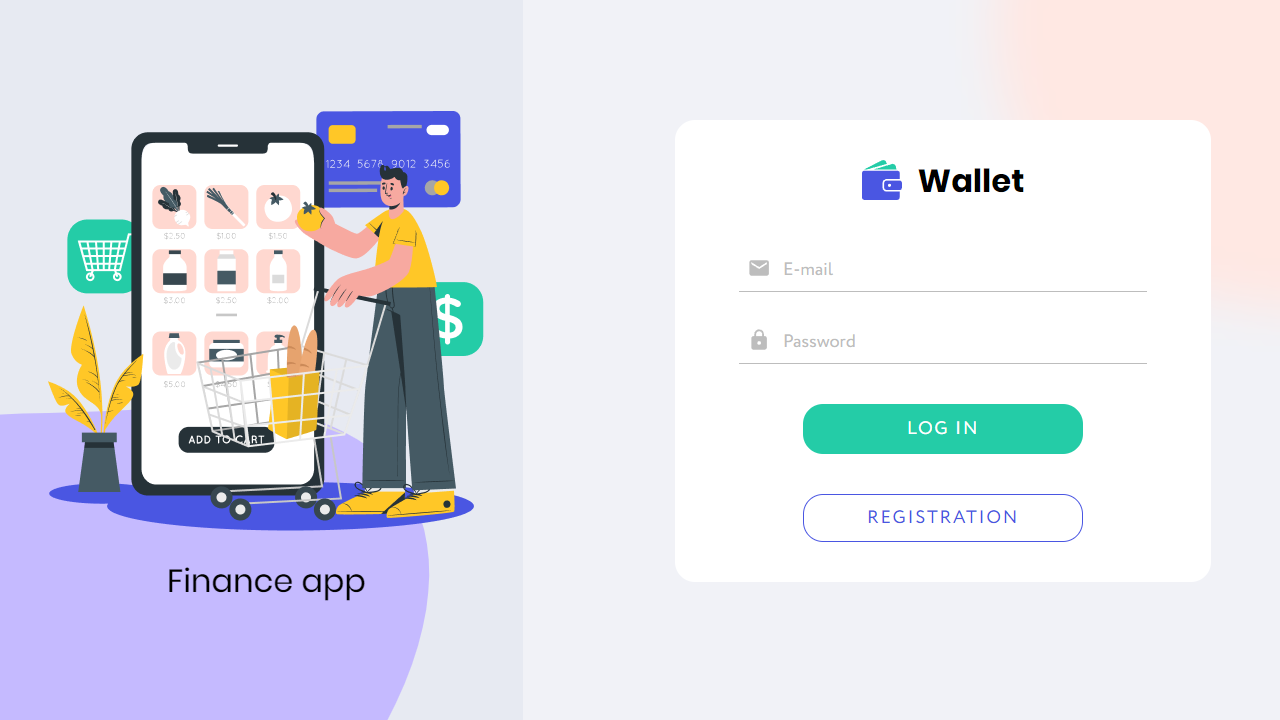
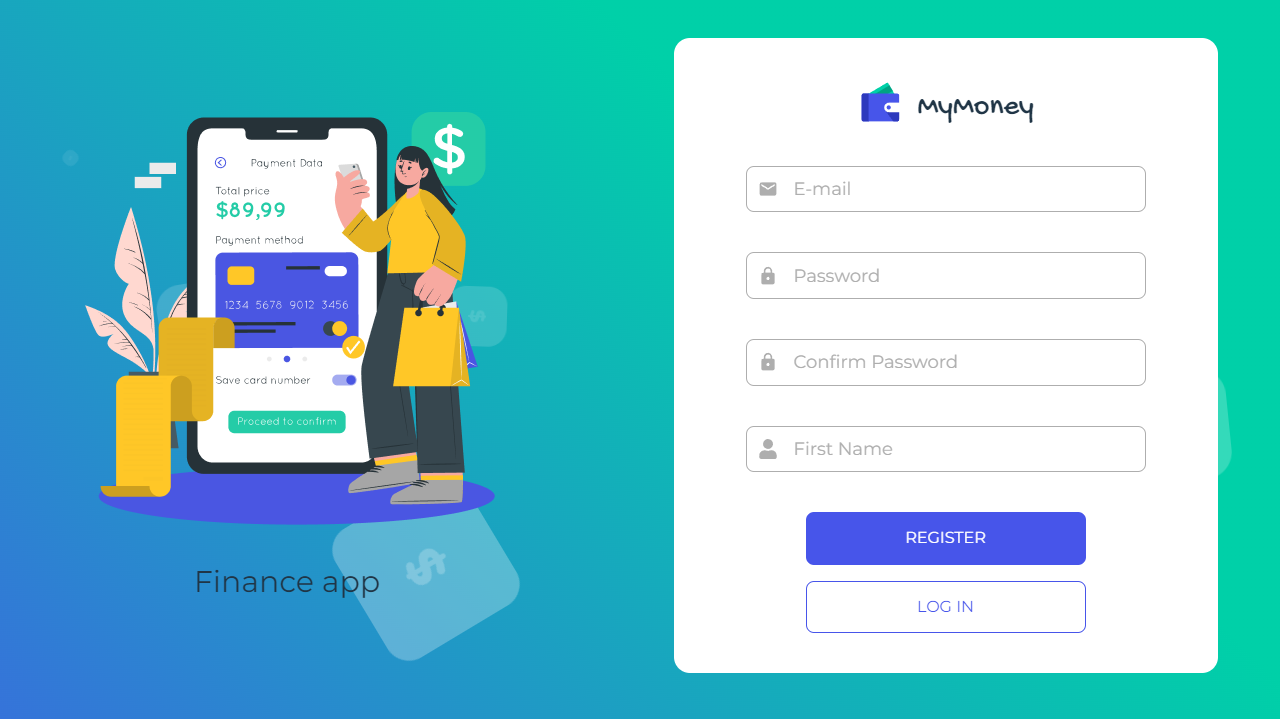
feat: chagnge money proj and add exper

diff --git a/src/components/Experience/Experience.jsx b/src/components/Experience/Experience.jsx
@@ -9,6 +9,8 @@ import redux from "../../assets/redux-icon.webp";
 import sass from "../../assets/sass.png";
 import swagger from "../../assets/swagger.png";
 import tailwind from "../../assets/tailwind.png";
+import styled from '../../assets/styled.png';
+import vue from '../../assets/Vue.png';
 const Experience = () => {
   const techs = [
     {
@@ -31,40 +33,53 @@ const Experience = () => {
     },
     {
       id: 4,
-      src: sass,
-      title: "SASS/SCSS",
-      style: "shadow-pink-400",
-    },
-    {
-      id: 5,
-      src: github,
-      title: "GitHub",
-      style: "shadow-gray-400",
-    },
-    {
-      id: 6,
-      src: react,
-      title: "React",
-      style: "shadow-blue-600",
-    },
-    {
-      id: 7,
       src: redux,
       title: "Redux",
       style: "shadow-purple-600",
     },
     {
-      id: 8,
-      src: swagger,
-      title: "Swagger",
-      style: "shadow-green-500",
+      id: 5,
+      src: react,
+      title: "React",
+      style: "shadow-blue-600",
     },
     {
-      id: 9,
+      id: 6,
+      src: vue,
+      title: "Vue",
+      style: "shadow-green-800",
+    },
+    {
+      id: 7,
+      src: sass,
+      title: "SASS/SCSS",
+      style: "shadow-pink-400",
+    },
+    {
+      id: 8,
       src: tailwind,
       title: "Tailwind",
       style: "shadow-sky-400",
     },
+    {
+      id: 9,
+      src: styled,
+      title: "Styled Components",
+      style: "shadow-gray-200",
+    },
+    {
+      id: 10,
+      src: github,
+      title: "GitHub",
+      style: "shadow-gray-400",
+    },
+     {
+      id: 11,
+      src: swagger,
+      title: "Swagger",
+      style: "shadow-green-500",
+    },  
+    
   ];
   return (
     <section

diff --git a/src/components/Portfolio/Portfolio.jsx b/src/components/Portfolio/Portfolio.jsx
@@ -34,8 +34,8 @@ const Portfolio = () => {
     {
       id: 3,
       src: wallet,
-      code: "https://sennarion.github.io/react-team-project/",
-      git: "https://github.com/Sennarion/react-team-project",
+      code: "https://sennarion.github.io/MyMoney/login",
+      git: "https://github.com/Sennarion/MyMoney",
       disabled: false,
       label: "team",
     },
